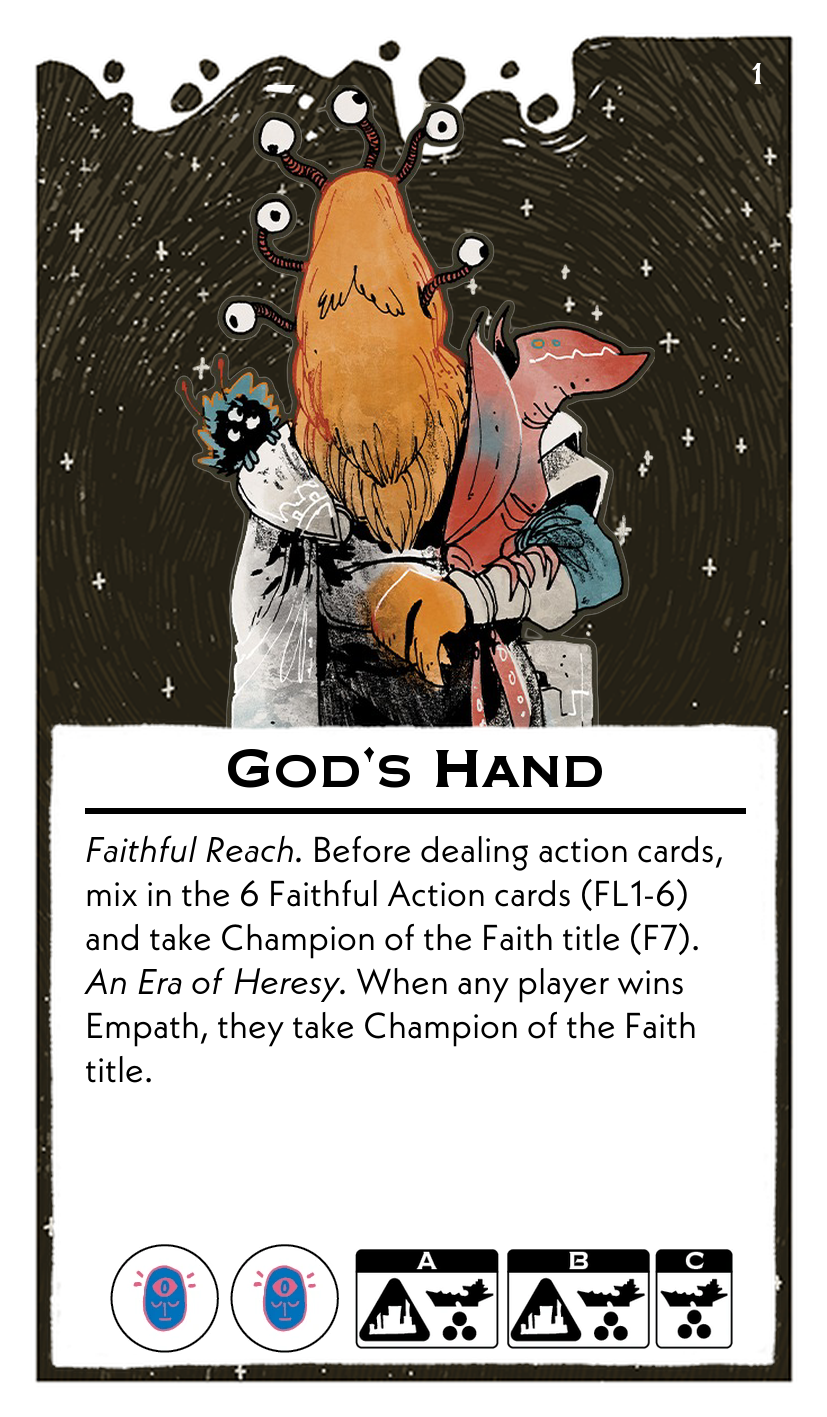
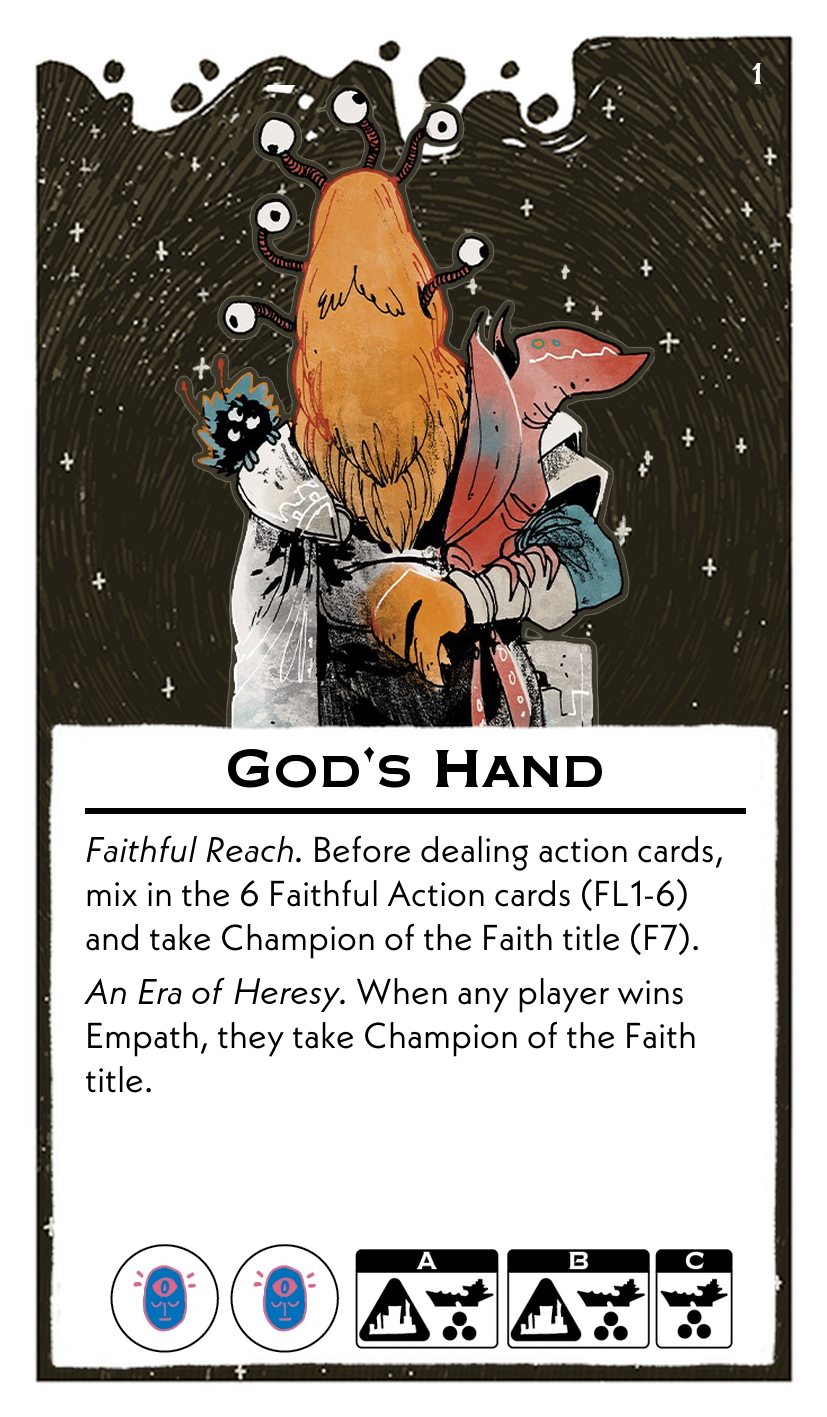
btr

Changed region(s): [[0.0907, 0.6831, 0.8464, 0.7763]]

diff --git a/scripts/LeaderimageScript.py b/scripts/LeaderimageScript.py
@@ -437,6 +437,7 @@ def create_card(input_data):
         wrapped_lines = []
         for para in paragraphs:
             if not para.strip():
+                wrapped_lines.append("")
                 continue
             words = para.strip().split()
             current_line_words = []
@@ -529,13 +530,14 @@ def create_card(input_data):
     current_y = line_y + _s(8)
     first_body_line = True
     for line in wrap_text(body_text, body_font, italic_font, bold_font, bolditalic_font, text_width):
-        # Support explicit vertical-space token in the body: "\eN" or "\e N"
-        # Example: "\e6" adds _s(6) pixels of vertical space.
+        # Support explicit vertical-space token in the body: "{vspace:N}"
+        # Example: "{vspace:6}" adds _s(6) pixels of vertical space. The token
+        # must occupy the line by itself (leading spaces allowed).
         stripped = line.strip()
-        if stripped.startswith("\\e"):
+        if stripped.startswith("{vspace:") and stripped.endswith("}"):
             try:
-                rest = stripped[2:].strip()
-                n = int(rest)
+                inner = stripped[len("{vspace:"):-1].strip()
+                n = int(inner)
                 current_y += _s(n)
                 continue
             except Exception:

diff --git a/scripts/batchVoxCards.py b/scripts/batchVoxCards.py
@@ -429,13 +429,14 @@ def create_vox_card(input_data):
     body_top_padding = input_data.get("body_top_padding", 16)
     current_y = line_y + _s(body_top_padding)
     for line in wrap_text(body_text, body_font, italic_font, bold_font, bolditalic_font, text_width):
-        # Support explicit vertical-space token in the body: "\eN" or "\e N"
-        # Example: "\e6" adds _s(6) pixels of vertical space.
+        # Support explicit vertical-space token in the body: "{vspace:N}"
+        # Example: "{vspace:6}" adds _s(6) pixels of vertical space. The token
+        # must occupy the line by itself (leading spaces allowed).
         stripped = line.strip()
-        if stripped.startswith("\\e"):
+        if stripped.startswith("{vspace:") and stripped.endswith("}"):
             try:
-                rest = stripped[2:].strip()
-                n = int(rest)
+                inner = stripped[len("{vspace:"):-1].strip()
+                n = int(inner)
                 current_y += _s(n)
                 continue
             except Exception:

diff --git a/scripts/batchGuildCards.py b/scripts/batchGuildCards.py
@@ -468,13 +468,14 @@ def create_guild_card(input_data):
     body_text = input_data.get("body", "")
     current_y = line_y + _s(18)
     for line in wrap_text(body_text, body_font, italic_font, bold_font, bolditalic_font, text_width):
-        # Support explicit vertical-space token in the body: "\eN" or "\e N"
-        # Example: "\e6" adds _s(6) pixels of vertical space.
+        # Support explicit vertical-space token in the body: "{vspace:N}"
+        # Example: "{vspace:6}" adds _s(6) pixels of vertical space. The token
+        # must occupy the line by itself (leading spaces allowed).
         stripped = line.strip()
-        if stripped.startswith("\\e"):
+        if stripped.startswith("{vspace:") and stripped.endswith("}"):
             try:
-                rest = stripped[2:].strip()
-                n = int(rest)
+                inner = stripped[len("{vspace:"):-1].strip()
+                n = int(inner)
                 current_y += _s(n)
                 continue
             except Exception:

diff --git a/scripts/batchLoreCards.py b/scripts/batchLoreCards.py
@@ -441,13 +441,14 @@ def create_lore_card(input_data):
     body_text = input_data.get('body', '')
     current_y = line_y + _s(18)
     for line in wrap_text(body_text, body_font, italic_font, bold_font, bolditalic_font, text_width):
-        # Support explicit vertical-space token in the body: "\eN" or "\e N"
-        # Example: "\e6" adds _s(6) pixels of vertical space.
+        # Support explicit vertical-space token in the body: "{vspace:N}"
+        # Example: "{vspace:6}" adds _s(6) pixels of vertical space. The token
+        # must occupy the line by itself (leading spaces allowed).
         stripped = line.strip()
-        if stripped.startswith("\\e"):
+        if stripped.startswith("{vspace:") and stripped.endswith("}"):
             try:
-                rest = stripped[2:].strip()
-                n = int(rest)
+                inner = stripped[len("{vspace:"):-1].strip()
+                n = int(inner)
                 current_y += _s(n)
                 continue
             except Exception:

diff --git a/scripts/btrFormatted.py b/scripts/btrFormatted.py
@@ -4,6 +4,7 @@ leaders = [
         "name": "God's Hand",
         "abilities": (
             "*Faithful* *Reach.* Before dealing action cards, mix in the 6 Faithful Action cards (FL1-6) and take Champion of the Faith title (F7).\n"
+            "{vspace:5}\n"
             "*An* *Era* *of* *Heresy.* When any player wins Empath, they take Champion of the Faith title."
         ),
         "resources": ["Psionic", "Psionic"],
@@ -35,6 +36,7 @@ leaders = [
         "name": "Scavenger",
         "abilities": (
             "**Scavenge** **(Tax):** Damage a fresh rival ship in a system you control. Then gain a resource matching that system.\n"
+            "{vspace:5}\n"
             "*Broken* *Reach.* In **setup**, all players Provoke Material Outrage."
         ),
         "resources": ["Material", "Fuel"],

diff --git a/scripts/leadersFormatted.py b/scripts/leadersFormatted.py
@@ -1251,7 +1251,7 @@ leaders = [
         },
         "body_font_size": 18
     },
-    # Dice-mechanic leaders (one per mechanic)
+    # Dice-mechanic leaders (one per requested mechanic)
     {
         "name": "Setmaker",
         "abilities": (       
@@ -1584,4 +1584,5 @@ leaders = [
     #     "body_font_size": 18
     # },
     # Fabricator
+
 ]

diff --git a/README.md b/README.md
@@ -17,7 +17,6 @@ Website: https://arcs-card-generator.streamlit.app/
    git clone https://github.com/your-username/Arcs-Leader-Generator.git
    ```
 
-2. Install dependencies:
 
    ```bash
    pip install Pillow
@@ -323,6 +322,11 @@ For both leader and lore cards, you can format text by surrounding words with as
 * `*italic*` → *italic*
 * `**bold**` → **bold**
 * `***both***` → ***bold italic***
+
+Explicit vertical space
+
+- Insert a standalone token `{vspace:N}\n` on its own line inside a card `body` to add N pixels of vertical space (scaled by the card's `render_scale`). Example: `{vspace:6}\n` adds `_s(6)` pixels of extra vertical gap. The token must occupy the line by itself (leading spaces allowed). This is useful for fine-tuning text layout when a manual break is needed.
+
 
 ### Inline Icons
 
